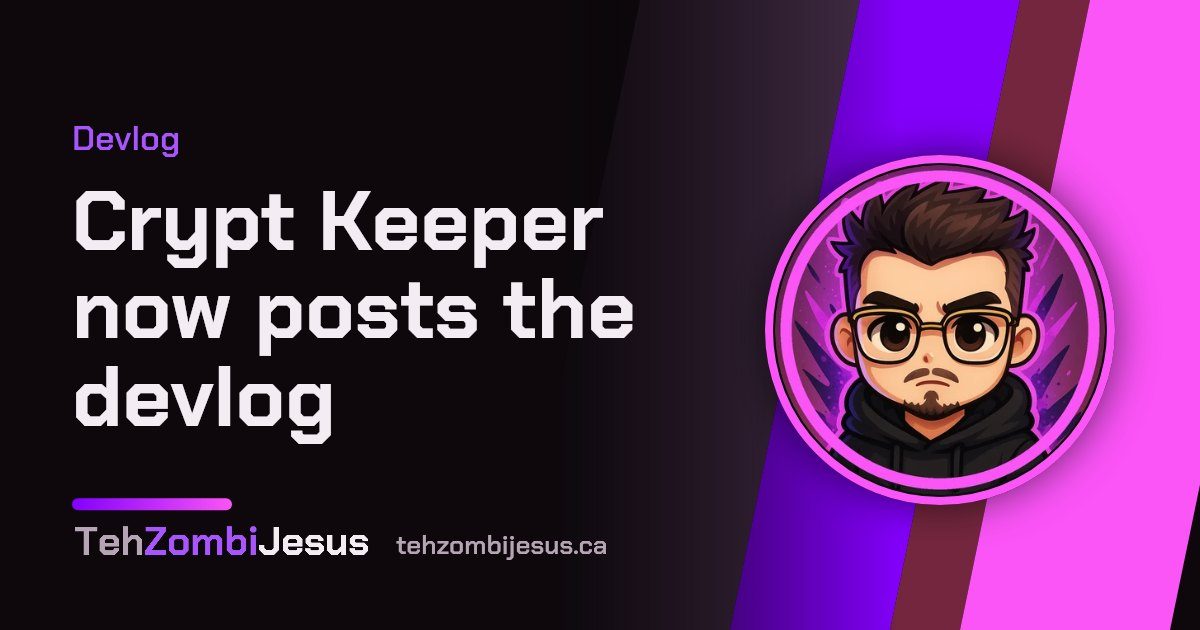
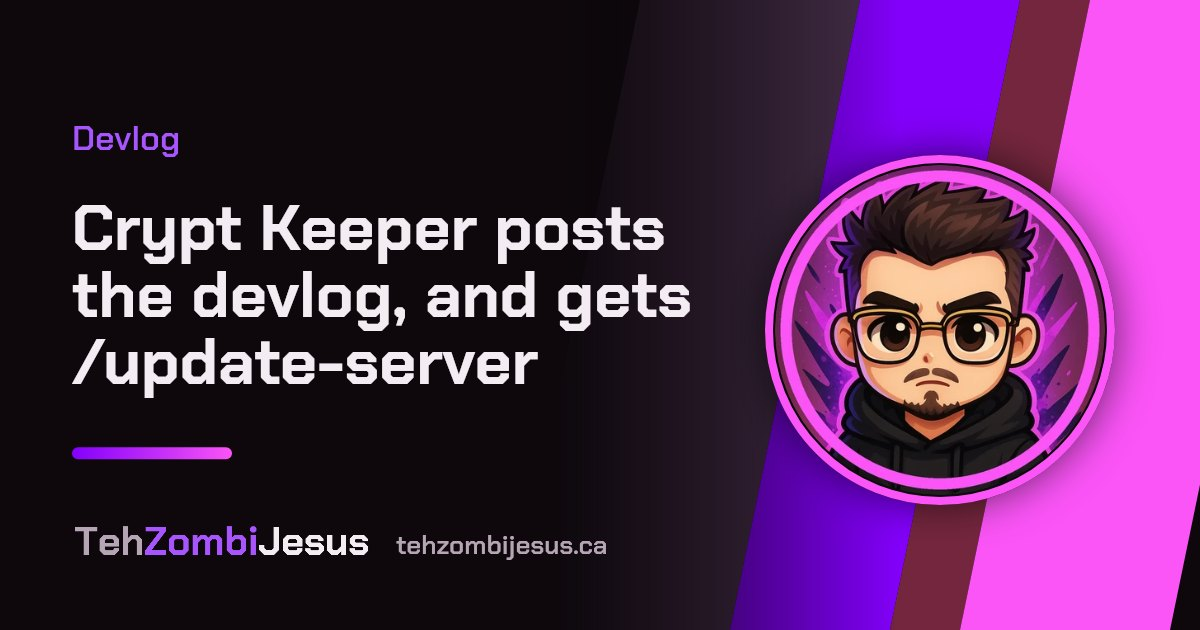
Dev: devlog post covers /update-server
Claude-Session: https://claude.ai/code/session_011ZPNKb7oEeXYxcHXvTuuqN

Changed region(s): [[0.0617, 0.3016, 0.5858, 0.754], [0.0617, 0.7841, 0.2158, 0.8143]]

diff --git a/site/fr/devlog/crypt-keeper-devlog.html b/site/fr/devlog/crypt-keeper-devlog.html
@@ -3,13 +3,13 @@
 <head>
 <meta charset="utf-8">
 <meta name="viewport" content="width=device-width, initial-scale=1, viewport-fit=cover">
-<title>Crypt Keeper publie maintenant le journal | TehZombiJesus</title>
+<title>Crypt Keeper publie le journal et reçoit /update-server | TehZombiJesus</title>
 <meta name="description" content="Chaque nouveau billet du journal arrive maintenant tout seul dans la Crypte, en anglais et en français, dans un nouveau salon 📰┃devlog.">
 <meta name="theme-color" content="#8300fb">
 <link rel="icon" href="../../assets/favicon.svg" type="image/svg+xml">
 <link rel="manifest" href="../../manifest.webmanifest">
 <link rel="apple-touch-icon" href="../../assets/apple-touch-icon.png">
-<meta property="og:title" content="Crypt Keeper publie maintenant le journal | TehZombiJesus">
+<meta property="og:title" content="Crypt Keeper publie le journal et reçoit /update-server | TehZombiJesus">
 <meta property="og:description" content="Chaque nouveau billet du journal arrive maintenant tout seul dans la Crypte, en anglais et en français, dans un nouveau salon 📰┃devlog.">
 <meta property="og:locale" content="fr_CA">
 <meta property="og:type" content="article">
@@ -57,13 +57,15 @@
 <main class="wrap">
   <header class="page-head">
     <span class="tag">Journal · <time datetime="2026-10-09">9 octobre 2026</time></span>
-    <h1>Crypt Keeper publie maintenant le journal</h1>
+    <h1>Crypt Keeper publie le journal et reçoit /update-server</h1>
     <div class="bar"></div>
     <p>Chaque nouveau billet du journal arrive maintenant tout seul dans la Crypte, en anglais et en français, dans un nouveau salon 📰┃devlog.</p>
   </header>
   <article class="prose">
 <p>Crypt Keeper, le bot de la Crypte, a appris un nouveau tour. Il vérifie le journal de ce site toutes les 30&nbsp;minutes, et chaque nouveau billet arrive dans <strong>📰┃devlog</strong> sur le serveur Discord, avec son titre, un résumé d'une ligne en anglais et en français, et des liens vers les deux versions.</p>
 <p>Le salon est en lecture seule, pour que les mises à jour restent faciles à suivre. On en jase dans les salons habituels.</p>
+<h2>/update-server</h2>
+<p>Les nouvelles fonctions qui ont besoin de quelque chose sur le serveur arrivent maintenant sous forme de petites mises à jour. <code>/update-server</code> affiche seulement ce qui est nouveau, explique chaque changement et attend un clic sur Appliquer. Chaque mise à jour ne s'applique qu'une fois et ne touche qu'à sa propre nouveauté, alors tout ce qui a été modifié à la main dans Discord reste exactement pareil. Fini de relancer tout le <code>/build-server</code>.</p>
 <p>Le journal couvre maintenant tout&nbsp;: ce site web, le serveur Discord et Crypt Keeper, le serveur Minecraft, le homelab et le poste de jeu. Le salon #devlog est donc l'endroit unique pour voir ce qui a changé.</p>
   </article>
   <nav class="post-nav" aria-label="Autres billets"><a class="older" href="../devlog/moved-to-github.html">← Le site a déménagé sur GitHub, et il parle français</a><a class="all" href="../devlog.html">Tous les billets</a><a class="newer" href="../devlog/a-new-look.html">Un nouveau look, dessiné de A à Z →</a></nav>

diff --git a/site/devlog/crypt-keeper-devlog.html b/site/devlog/crypt-keeper-devlog.html
@@ -3,13 +3,13 @@
 <head>
 <meta charset="utf-8">
 <meta name="viewport" content="width=device-width, initial-scale=1, viewport-fit=cover">
-<title>Crypt Keeper now posts the devlog | TehZombiJesus</title>
+<title>Crypt Keeper posts the devlog, and gets /update-server | TehZombiJesus</title>
 <meta name="description" content="Every new devlog post now shows up in the Crypt by itself, in English and French, in a new 📰┃devlog channel.">
 <meta name="theme-color" content="#8300fb">
 <link rel="icon" href="../assets/favicon.svg" type="image/svg+xml">
 <link rel="manifest" href="../manifest.webmanifest">
 <link rel="apple-touch-icon" href="../assets/apple-touch-icon.png">
-<meta property="og:title" content="Crypt Keeper now posts the devlog | TehZombiJesus">
+<meta property="og:title" content="Crypt Keeper posts the devlog, and gets /update-server | TehZombiJesus">
 <meta property="og:description" content="Every new devlog post now shows up in the Crypt by itself, in English and French, in a new 📰┃devlog channel.">
 <meta property="og:type" content="article">
 <meta property="og:site_name" content="TehZombiJesus">
@@ -56,13 +56,15 @@
 <main class="wrap">
   <header class="page-head">
     <span class="tag">Devlog · <time datetime="2026-10-09">October 9, 2026</time></span>
-    <h1>Crypt Keeper now posts the devlog</h1>
+    <h1>Crypt Keeper posts the devlog, and gets /update-server</h1>
     <div class="bar"></div>
     <p>Every new devlog post now shows up in the Crypt by itself, in English and French, in a new 📰┃devlog channel.</p>
   </header>
   <article class="prose">
 <p>Crypt Keeper, the Crypt's own bot, learned a new trick. It checks this site's devlog every 30 minutes, and each new post lands in <strong>📰┃devlog</strong> on the Discord server, with its title, a one-line summary in English and French, and links to both versions.</p>
 <p>The channel is read-only, so the updates stay easy to follow. Talk about them in the usual channels.</p>
+<h2>/update-server</h2>
+<p>New features that need something on the server now arrive as small updates. <code>/update-server</code> lists only what's new, explains each change and waits for an Apply click. Each update runs once and touches only its own new thing, so anything changed by hand in Discord stays exactly as it is. No more running the full <code>/build-server</code> again.</p>
 <p>The devlog now covers everything: this website, the Discord server and Crypt Keeper, the Minecraft server, the homelab and the setup. So #devlog is the one place to see what changed.</p>
   </article>
   <nav class="post-nav" aria-label="More posts"><a class="older" href="../devlog/moved-to-github.html">← The site moved to GitHub, and learned French</a><a class="all" href="../devlog.html">All posts</a><a class="newer" href="../devlog/a-new-look.html">A new look, drawn from scratch →</a></nav>

diff --git a/site/changelog.html b/site/changelog.html
@@ -61,7 +61,7 @@
   </header>
   <section>
     <ol class="changes">
-    <li><time datetime="2026-10-10">October 10, 2026</time><ul><li>Dev: tighter home, brand stripes, redrawn server, devlog for every project</li><li>Dev: stop the Canada flag floating out of its chip in About me</li><li>Dev: add Stavo by NullDaily to the homelab page</li><li>Dev: replace mockup artwork with original art</li><li>Dev redesign: neon look, artwork, and a new home page</li></ul></li>
+    <li><time datetime="2026-10-10">October 10, 2026</time><ul><li>Dev: devlog posts reach Discord through Crypt Keeper</li><li>Dev: tighter home, brand stripes, redrawn server, devlog for every project</li><li>Dev: stop the Canada flag floating out of its chip in About me</li><li>Dev: add Stavo by NullDaily to the homelab page</li><li>Dev: replace mockup artwork with original art</li><li>Dev redesign: neon look, artwork, and a new home page</li></ul></li>
     <li><time datetime="2026-10-08">October 8, 2026</time><ul><li>The homelab page comes alive: live status, server x-ray and a lab console</li></ul></li>
     </ol>
   </section>

diff --git a/site/fr/changelog.html b/site/fr/changelog.html
@@ -62,7 +62,7 @@
   </header>
   <section>
     <ol class="changes">
-    <li><time datetime="2026-10-10">10 octobre 2026</time><ul><li>Dev: tighter home, brand stripes, redrawn server, devlog for every project</li><li>Dev: stop the Canada flag floating out of its chip in About me</li><li>Dev: add Stavo by NullDaily to the homelab page</li><li>Dev: replace mockup artwork with original art</li><li>Dev redesign: neon look, artwork, and a new home page</li></ul></li>
+    <li><time datetime="2026-10-10">10 octobre 2026</time><ul><li>Dev: devlog posts reach Discord through Crypt Keeper</li><li>Dev: tighter home, brand stripes, redrawn server, devlog for every project</li><li>Dev: stop the Canada flag floating out of its chip in About me</li><li>Dev: add Stavo by NullDaily to the homelab page</li><li>Dev: replace mockup artwork with original art</li><li>Dev redesign: neon look, artwork, and a new home page</li></ul></li>
     <li><time datetime="2026-10-08">8 octobre 2026</time><ul><li>The homelab page comes alive: live status, server x-ray and a lab console</li></ul></li>
     </ol>
   </section>

diff --git a/site/fr/devlog/a-new-look.html b/site/fr/devlog/a-new-look.html
@@ -75,7 +75,7 @@
 <h2>Un seul journal pour tout</h2>
 <p>À partir de maintenant, chaque mise à jour a son billet ici&nbsp;: le site web, le serveur Discord et son bot, le serveur Minecraft, le homelab et le poste de jeu. La liste du journal se filtre par projet, et chaque nouveau billet est aussi annoncé sur le serveur Discord.</p>
   </article>
-  <nav class="post-nav" aria-label="Autres billets"><a class="older" href="../devlog/crypt-keeper-devlog.html">← Crypt Keeper publie maintenant le journal</a><a class="all" href="../devlog.html">Tous les billets</a></nav>
+  <nav class="post-nav" aria-label="Autres billets"><a class="older" href="../devlog/crypt-keeper-devlog.html">← Crypt Keeper publie le journal et reçoit /update-server</a><a class="all" href="../devlog.html">Tous les billets</a></nav>
 </main>
 
 <footer>

diff --git a/site/fr/devlog/moved-to-github.html b/site/fr/devlog/moved-to-github.html
@@ -73,7 +73,7 @@
   <li>La page Homelab a une carte animée de comment tout se connecte.</li>
 </ul>
   </article>
-  <nav class="post-nav" aria-label="Autres billets"><a class="older" href="../devlog/welcome-to-the-crypt.html">← Bienvenue dans la Crypte</a><a class="all" href="../devlog.html">Tous les billets</a><a class="newer" href="../devlog/crypt-keeper-devlog.html">Crypt Keeper publie maintenant le journal →</a></nav>
+  <nav class="post-nav" aria-label="Autres billets"><a class="older" href="../devlog/welcome-to-the-crypt.html">← Bienvenue dans la Crypte</a><a class="all" href="../devlog.html">Tous les billets</a><a class="newer" href="../devlog/crypt-keeper-devlog.html">Crypt Keeper publie le journal et reçoit /update-server →</a></nav>
 </main>
 
 <footer>

diff --git a/site/devlog/a-new-look.html b/site/devlog/a-new-look.html
@@ -74,7 +74,7 @@
 <h2>One devlog for everything</h2>
 <p>From now on, every update gets a post here: the website, the Discord server and its bot, the Minecraft server, the homelab and the setup. The devlog list can be filtered by project, and each new post is also announced in the Discord server.</p>
   </article>
-  <nav class="post-nav" aria-label="More posts"><a class="older" href="../devlog/crypt-keeper-devlog.html">← Crypt Keeper now posts the devlog</a><a class="all" href="../devlog.html">All posts</a></nav>
+  <nav class="post-nav" aria-label="More posts"><a class="older" href="../devlog/crypt-keeper-devlog.html">← Crypt Keeper posts the devlog, and gets /update-server</a><a class="all" href="../devlog.html">All posts</a></nav>
 </main>
 
 <footer>

diff --git a/site/devlog/moved-to-github.html b/site/devlog/moved-to-github.html
@@ -72,7 +72,7 @@
   <li>The homelab page has a live map of how everything connects.</li>
 </ul>
   </article>
-  <nav class="post-nav" aria-label="More posts"><a class="older" href="../devlog/welcome-to-the-crypt.html">← Welcome to The Crypt</a><a class="all" href="../devlog.html">All posts</a><a class="newer" href="../devlog/crypt-keeper-devlog.html">Crypt Keeper now posts the devlog →</a></nav>
+  <nav class="post-nav" aria-label="More posts"><a class="older" href="../devlog/welcome-to-the-crypt.html">← Welcome to The Crypt</a><a class="all" href="../devlog.html">All posts</a><a class="newer" href="../devlog/crypt-keeper-devlog.html">Crypt Keeper posts the devlog, and gets /update-server →</a></nav>
 </main>
 
 <footer>

diff --git a/site/fr/devlog.html b/site/fr/devlog.html
@@ -76,7 +76,7 @@
       </li>
       <li data-project="discord">
         <span class="proj">Discord et bot</span><time datetime="2026-10-09">9 octobre 2026</time>
-        <h3><a href="devlog/crypt-keeper-devlog.html">Crypt Keeper publie maintenant le journal</a></h3>
+        <h3><a href="devlog/crypt-keeper-devlog.html">Crypt Keeper publie le journal et reçoit /update-server</a></h3>
         <p>Chaque nouveau billet du journal arrive maintenant tout seul dans la Crypte, en anglais et en français, dans un nouveau salon 📰┃devlog.</p>
         <ul class="tags-mini"><li>discord</li><li>bot</li><li>crypt keeper</li></ul>
       </li>

diff --git a/site/devlog.html b/site/devlog.html
@@ -75,7 +75,7 @@
       </li>
       <li data-project="discord">
         <span class="proj">Discord and bot</span><time datetime="2026-10-09">October 9, 2026</time>
-        <h3><a href="devlog/crypt-keeper-devlog.html">Crypt Keeper now posts the devlog</a></h3>
+        <h3><a href="devlog/crypt-keeper-devlog.html">Crypt Keeper posts the devlog, and gets /update-server</a></h3>
         <p>Every new devlog post now shows up in the Crypt by itself, in English and French, in a new 📰┃devlog channel.</p>
         <ul class="tags-mini"><li>discord</li><li>bot</li><li>crypt keeper</li></ul>
       </li>

diff --git a/tools/devlog_posts.py b/tools/devlog_posts.py
@@ -161,19 +161,23 @@ POSTS = [
   'project': 'discord',
   'tags': ['discord', 'bot', 'crypt keeper'],
   'en': {
-    'title': 'Crypt Keeper now posts the devlog',
+    'title': 'Crypt Keeper posts the devlog, and gets /update-server',
     'summary': 'Every new devlog post now shows up in the Crypt by itself, in English and French, in a new 📰┃devlog channel.',
     'body': """
 <p>Crypt Keeper, the Crypt's own bot, learned a new trick. It checks this site's devlog every 30 minutes, and each new post lands in <strong>📰┃devlog</strong> on the Discord server, with its title, a one-line summary in English and French, and links to both versions.</p>
 <p>The channel is read-only, so the updates stay easy to follow. Talk about them in the usual channels.</p>
+<h2>/update-server</h2>
+<p>New features that need something on the server now arrive as small updates. <code>/update-server</code> lists only what's new, explains each change and waits for an Apply click. Each update runs once and touches only its own new thing, so anything changed by hand in Discord stays exactly as it is. No more running the full <code>/build-server</code> again.</p>
 <p>The devlog now covers everything: this website, the Discord server and Crypt Keeper, the Minecraft server, the homelab and the setup. So #devlog is the one place to see what changed.</p>
 """},
   'fr': {
-    'title': 'Crypt Keeper publie maintenant le journal',
+    'title': 'Crypt Keeper publie le journal et reçoit /update-server',
     'summary': 'Chaque nouveau billet du journal arrive maintenant tout seul dans la Crypte, en anglais et en français, dans un nouveau salon 📰┃devlog.',
     'body': """
 <p>Crypt Keeper, le bot de la Crypte, a appris un nouveau tour. Il vérifie le journal de ce site toutes les 30&nbsp;minutes, et chaque nouveau billet arrive dans <strong>📰┃devlog</strong> sur le serveur Discord, avec son titre, un résumé d'une ligne en anglais et en français, et des liens vers les deux versions.</p>
 <p>Le salon est en lecture seule, pour que les mises à jour restent faciles à suivre. On en jase dans les salons habituels.</p>
+<h2>/update-server</h2>
+<p>Les nouvelles fonctions qui ont besoin de quelque chose sur le serveur arrivent maintenant sous forme de petites mises à jour. <code>/update-server</code> affiche seulement ce qui est nouveau, explique chaque changement et attend un clic sur Appliquer. Chaque mise à jour ne s'applique qu'une fois et ne touche qu'à sa propre nouveauté, alors tout ce qui a été modifié à la main dans Discord reste exactement pareil. Fini de relancer tout le <code>/build-server</code>.</p>
 <p>Le journal couvre maintenant tout&nbsp;: ce site web, le serveur Discord et Crypt Keeper, le serveur Minecraft, le homelab et le poste de jeu. Le salon #devlog est donc l'endroit unique pour voir ce qui a changé.</p>
 """},
  },
